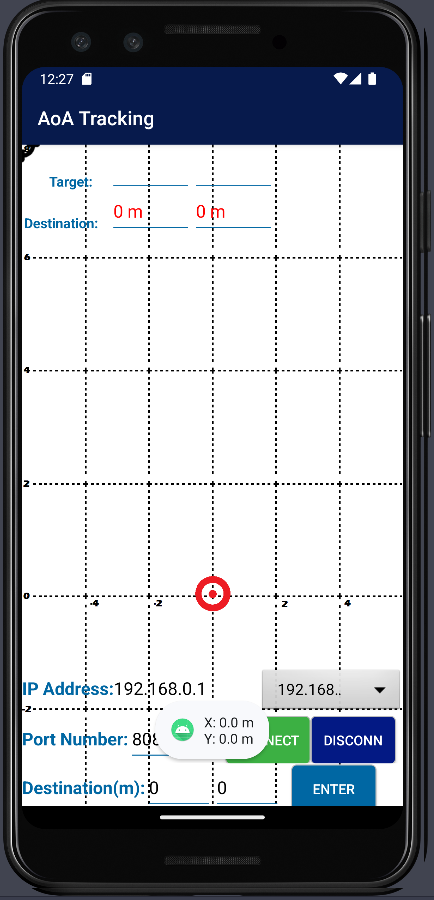
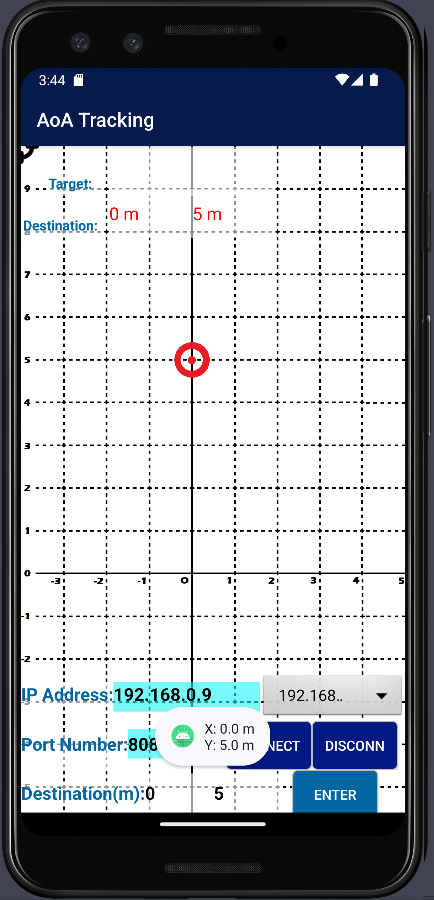
Target and Destination images are set to be on 0,0 as an initial location

diff --git a/app/src/main/java/com/example/location_display/MainActivity.java b/app/src/main/java/com/example/location_display/MainActivity.java
@@ -282,6 +282,9 @@ public class MainActivity extends AppCompatActivity {
         //이미지 맨 앞으로
         imageView.bringToFront();
         imageView2.bringToFront();
+        //초기에 0,0으로 이동해주기
+        image_move(160, 400, imageView);
+        image_move(160, 400, imageView2);
         IpThread ipthread = new IpThread();
         ipthread.start();
 
